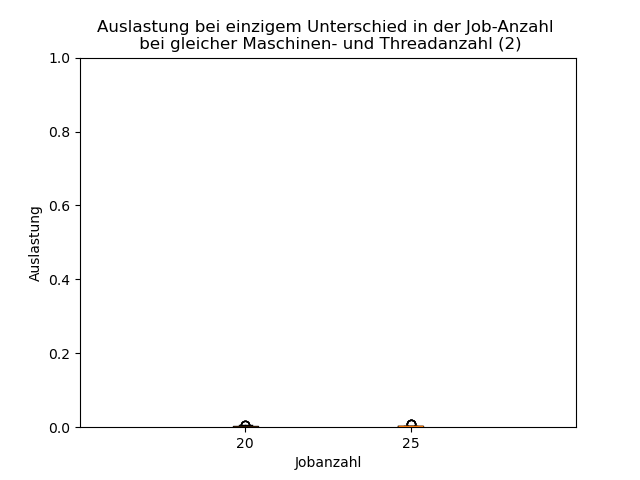
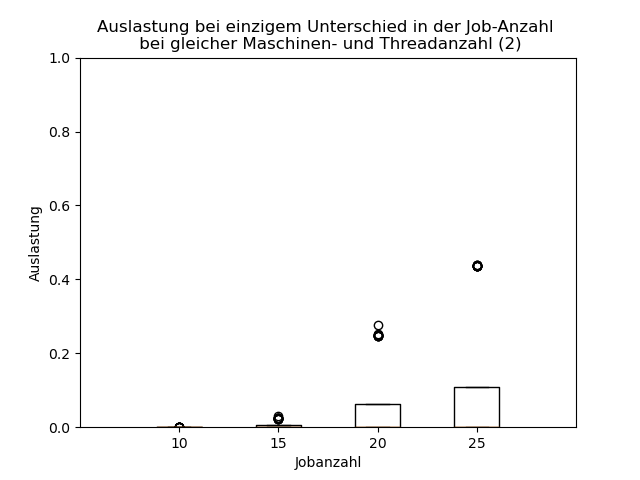
basic plotting

diff --git a/tracking_output/basic/basic_plotting.py b/tracking_output/basic/basic_plotting.py
@@ -75,7 +75,7 @@ print(values)
 max_value = math.ceil(max(max(sub_list) for sub_list in values[1]))
 min_value = math.floor(min(min(sub_list) for sub_list in values[1]))
 
-plt.boxplot(x=values[1], tick_labels=[20,25])
+plt.boxplot(x=values[1], tick_labels=values[0])
 
 plt.xlim([0, len(values[0])+1])
 plt.ylim([min_value, 1])
